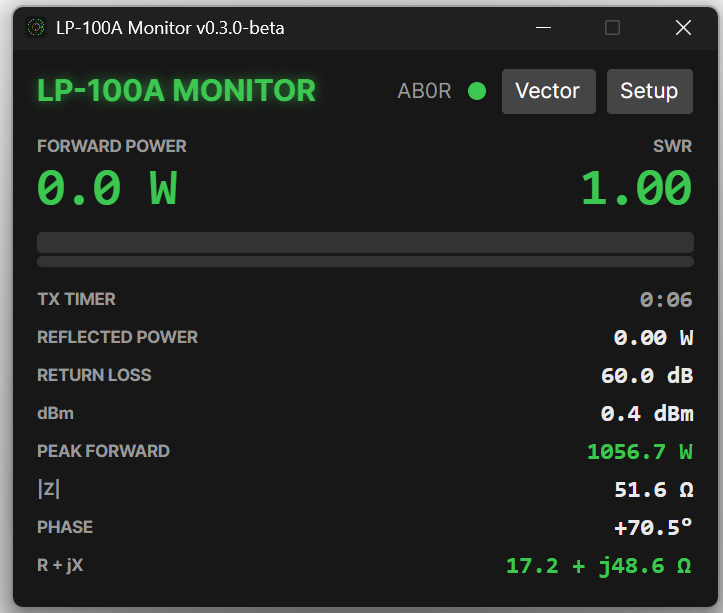
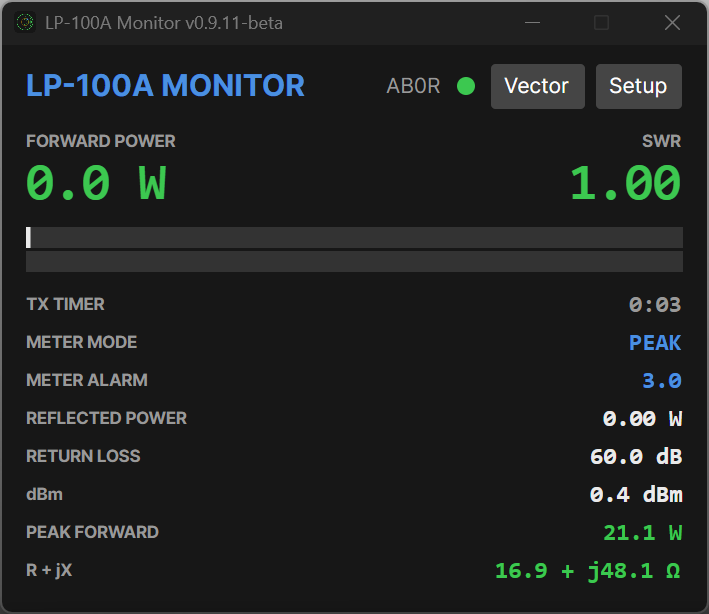
Release v0.9.12-beta: fix log-refresh crash, column clipping, tab a11y names
CRITICAL: with the log window open, a Refresh — or any new logged over, which
refreshes automatically — crashed the app. LogWindow hand-writes
InitializeComponent (matching the app's other windows), which shadows the
XAML-generated one that assigns x:Name fields, so the `Grid` field was never
set and the scroll-to-newest dereferenced null. The control is now looked up
explicitly from the name scope and treated as optional.

Verified by driving the real UI over UI Automation: open Setup -> Logging tab ->
View log, confirm rows realize in the grid, then click Refresh repeatedly. That
same harness caught two more issues:

- Column headers were clipping their own captions ("Freq MH", "SWR@pl", "Ran")
  and timestamps were cut off. Widths now sized to the header text; window opens
  wider. Kept fixed rather than Auto so columns don't jitter as virtualized rows
  scroll in.
- Setup's tabs announced as "Avalonia.Controls.ScrollViewer" to screen readers —
  a regression from the custom TabItem template. AutomationProperties.Name added.

Also: scroll to newest on first open (the VM loads rows before the window
exists, so that first fill raised no CollectionChanged), fresh screenshots, and
README refreshed (status was still 0.9.3-beta; adds a transmission-logging
section).

Changed region(s): [[0.0, 0.0, 1.0, 1.0], [0.5275, 0.093, 0.9619, 0.186], [0.8068, 0.217, 0.9619, 0.3409]]

diff --git a/src/Lp100a.App/Views/LogWindow.axaml.cs b/src/Lp100a.App/Views/LogWindow.axaml.cs
@@ -10,6 +10,11 @@ namespace Lp100a.App.Views;
 
 public partial class LogWindow : Window
 {
+    // Resolved explicitly from the name scope. This class hand-writes InitializeComponent (like the
+    // app's other windows), which shadows the XAML-generated one that would assign x:Name fields —
+    // so the generated `Grid` field is never set. Relying on it crashed the app on the first
+    // refresh (v0.9.11-beta). Look the control up instead, and treat it as optional.
+    private DataGrid? _grid;
     private bool _scrollQueued;
 
     public LogWindow()
@@ -17,19 +22,29 @@ public partial class LogWindow : Window
         InitializeComponent();
         Closing += (_, _) => (Application.Current as App)?.NotifyLogClosing(this);
         DataContextChanged += (_, _) => HookRows();
+        // The view model loads its rows before the window is built, so that first fill raises no
+        // CollectionChanged here — scroll once on open to land on the newest row.
+        Opened += (_, _) => ScrollToNewest();
         HookRows();
     }
 
-    private void InitializeComponent() => AvaloniaXamlLoader.Load(this);
+    private void InitializeComponent()
+    {
+        AvaloniaXamlLoader.Load(this);
+        _grid = this.FindControl<DataGrid>("Grid");
+    }
 
     private void HookRows()
     {
         if (DataContext is LogViewModel vm)
+        {
+            vm.Rows.CollectionChanged -= OnRowsChanged;   // no double-subscribe if DataContext is reset
             vm.Rows.CollectionChanged += OnRowsChanged;
+        }
     }
 
     // Rows are chronological, so the interesting end is the bottom. Scroll there whenever the list
-    // reloads (window opening, Refresh, a new over arriving).
+    // reloads (Refresh, or a new over arriving).
     private void OnRowsChanged(object? sender, NotifyCollectionChangedEventArgs e)
     {
         if (_scrollQueued) return;   // a reload raises Clear + one event per row; scroll once
@@ -37,9 +52,16 @@ public partial class LogWindow : Window
         Dispatcher.UIThread.Post(() =>
         {
             _scrollQueued = false;
-            if (DataContext is not LogViewModel { Rows.Count: > 0 } vm) return;
-            Grid.ScrollIntoView(vm.Rows[^1], null);
+            ScrollToNewest();
         }, DispatcherPriority.Background);   // after the grid has realized the new rows
+    }
+
+    private void ScrollToNewest()
+    {
+        if (_grid is null) return;
+        if (DataContext is not LogViewModel { Rows.Count: > 0 } vm) return;
+        try { _grid.ScrollIntoView(vm.Rows[^1], null); }
+        catch { /* grid not realized yet; the next reload will scroll */ }
     }
 
     private void OnCloseClick(object? sender, RoutedEventArgs e) => Close();

diff --git a/README.md b/README.md
@@ -7,7 +7,7 @@ this app — the load impedance (**R + jX**) on a live **Smith chart**.
 
 Runs on Windows, Linux, and Raspberry Pi (arm64).
 
-> Status: **0.9.3-beta** — real and in use, but not yet broadly field-tested.
+> Status: **0.9.12-beta** — real and in use, but not yet broadly field-tested.
 
 <p align="center">
   <img src="docs/screenshot-all.png" width="900"
@@ -41,8 +41,11 @@ no need to download manually again.
 - **Vector window** — the Smith chart: constant-R/X grid with ohm labels, a live
   operating-point marker with a fading trail, and a constant-SWR circle. Great for
   antenna/tuner tuning.
-- **Setup window** — port selection, display toggles, an on-screen SWR alarm banner
-  toggle, peak-hold on/off, and in-app updates.
+- **Setup window** — tabbed: **Connection** (meter serial port and the rigctld CAT link),
+  **Display**, **Alarm**, **Logging**, and **Updates**. It reopens on whichever tab you
+  used last.
+- **Transmission log window** — an opt-in CSV log with one row per over, viewable in the
+  app (**Setup → Logging → View log**) and sortable by any column.
 
 The **SWR bar** fills with a green → orange → red gradient whose colour breakpoints
 scale to the meter's alarm setpoint — red anchors where your alarm trips. When the
@@ -60,6 +63,30 @@ everything. Window positions and display choices persist between runs.
 |                      Idle                      |                 Transmitting (dummy load)                  |
 | :--------------------------------------------: | :--------------------------------------------------------: |
 | ![Main window, idle](docs/screenshot-main.png) | ![Main window, transmitting](docs/screenshot-main-tx.png) |
+
+## Transmission logging
+
+Turn on **Setup → Logging → Log each transmission (CSV)** and every over is recorded as
+one row: timestamp, frequency, duration, peak forward power, worst SWR, and the SWR plus
+load **R + jX** sampled at the moment of peak power — the point in the over where the
+numbers actually mean something.
+
+An over is closed only on a *confirmed* key-up, so a serial dropout mid-transmission
+can't split one over into two or cut it short. The log is capped to a rolling 2000 rows
+at `%AppData%\Lp100aMonitor\TXlog.csv` (Windows) or `~/.config/Lp100aMonitor/TXlog.csv`
+(Linux). **View log** shows it in-app, sorted however you like; **Open in Excel** hands
+the CSV to your spreadsheet.
+
+<p align="center">
+  <img src="docs/screenshot-log.png" width="900"
+       alt="The transmission log window: one row per over with frequency, power, SWR and R + jX">
+</p>
+
+The **Freq MHz** column fills in when a frequency source is configured under
+**Setup → Connection** — a Hamlib `rigctld` endpoint (`host:port`, default
+`127.0.0.1:4532`). rigctld shares one CAT port across applications, so this won't fight
+your logger for the radio. When no frequency is known the column is deliberately left
+**blank** rather than carrying a guess.
 
 ## Serial protocol (per the official LP-100A manual, p.20)
 

diff --git a/CHANGELOG.md b/CHANGELOG.md
@@ -5,6 +5,20 @@ All notable changes to **LP-100A Monitor** are documented here.
 This project follows [Semantic Versioning](https://semver.org). Versions below
 `1.0.0` are pre-release: real and in active use, but not yet broadly field-tested.
 
+## [0.9.12-beta] - 2026-07-25
+
+### Fixed
+- **App crash when refreshing the transmission log.** With the log window open, clicking
+  **Refresh** — or simply logging a new over, which refreshes it automatically — took the whole
+  app down. The window's reference to its own grid was never wired up, so the auto-scroll-to-newest
+  hit a null reference. Anyone who left the log window open while operating would have hit this on
+  their first transmission. **Everyone on 0.9.11-beta should update.**
+- The log's column headers were clipped to their own captions ("Freq MH", "SWR@pl", "Ran") and
+  timestamps were cut off; columns are now sized to fit their headers, and the window opens wider.
+- The log now scrolls to the newest row when it first opens, not only on later refreshes.
+- Setup's tabs reported themselves to screen readers as "Avalonia.Controls.ScrollViewer" instead
+  of their names; they now announce as Connection / Display / Alarm / Logging / Updates.
+
 ## [0.9.11-beta] - 2026-07-25
 
 ### Added

diff --git a/CLAUDE.md b/CLAUDE.md
@@ -4,7 +4,7 @@ Cross-platform desktop monitor for the TelePost **LP-100A** Digital Vector RF Wa
 Reads the meter over USB serial and shows forward power, SWR, reflected power, return loss,
 dBm, and — the signature feature — the load impedance (**R + jX**) on a live **Smith chart**.
 **.NET 8 + Avalonia 11.2.1**, MVVM. Windows / Linux / Raspberry Pi (arm64). GPLv3.
-By David Erickson (AB0R). Status: **0.9.11-beta**.
+By David Erickson (AB0R). Status: **0.9.12-beta**.
 
 This app's .NET 8 + Avalonia layout is the reference template for the station tools (the W2
 port follows it).
